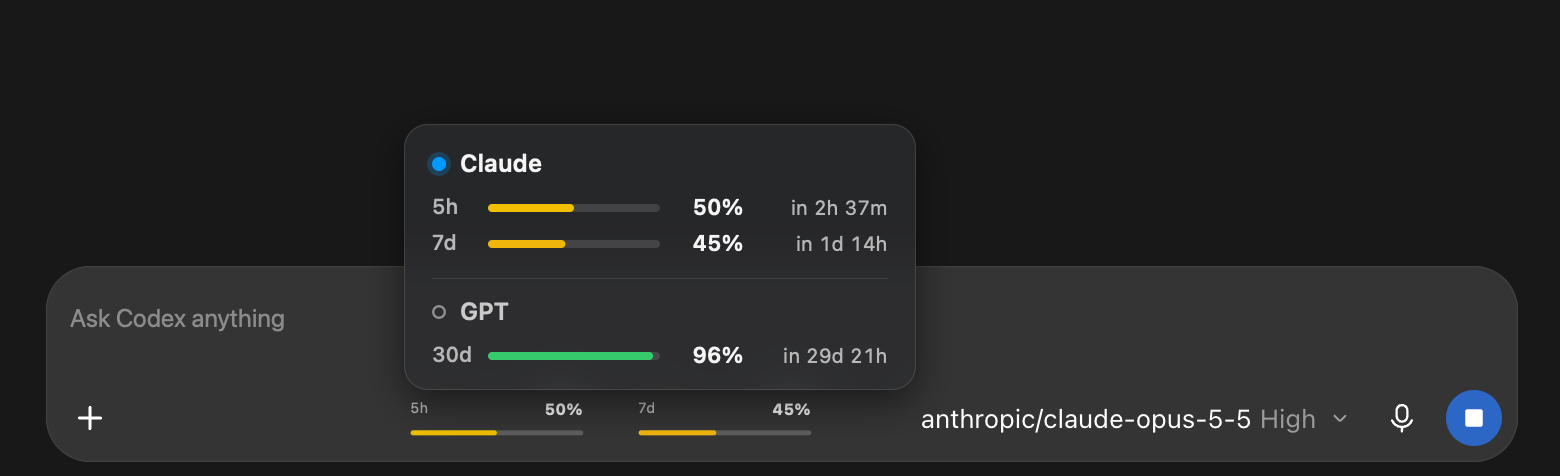
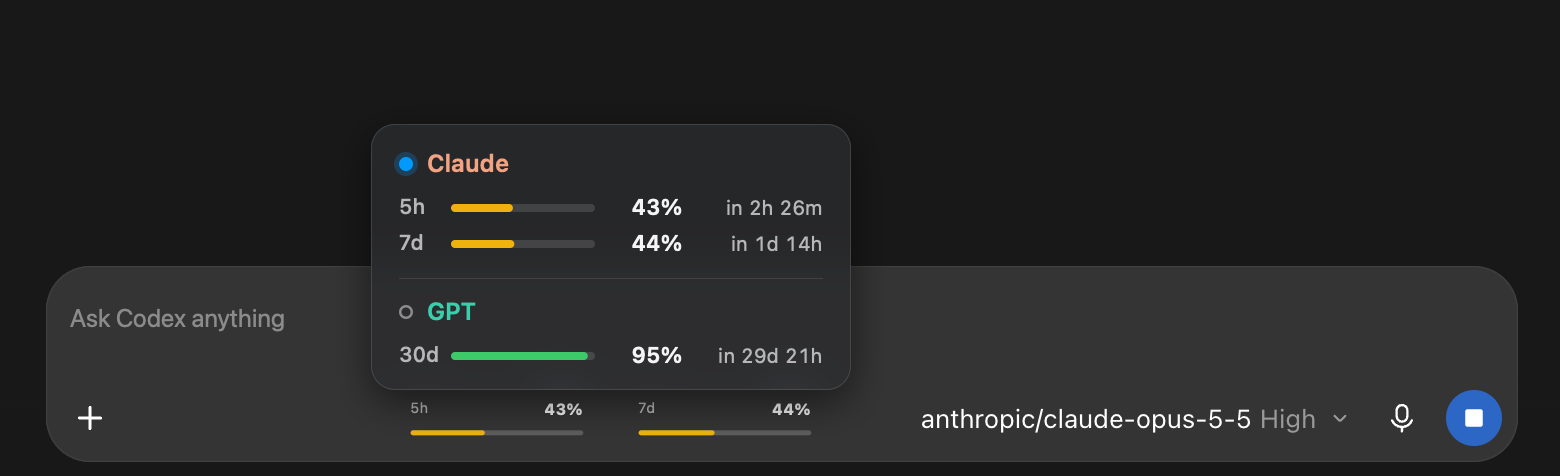
Droplet from the centre with a no-bounce spring, provider colours, narrower card

diff --git a/Sources/Tidemark/HoverCard.swift b/Sources/Tidemark/HoverCard.swift
@@ -4,6 +4,7 @@ import TidemarkCore
 
 struct HoverSection {
     let title: String
+    let color: NSColor
     let active: Bool
     let windows: [QuotaWindow]
 }
@@ -22,13 +23,18 @@ func quotaColor(_ remaining: Int) -> NSColor {
     return NSColor(calibratedRed: color.x / 255, green: color.y / 255, blue: color.z / 255, alpha: 1)
 }
 
-/// Hover card with every provider's quota. It grows out of the overlay's corner like a
-/// droplet: blur, border and shadow share one spring-animated shape. Everything is built on
-/// first hover, driven by Core Animation, and the bitmap is dropped again when hidden.
+/// Hover card with every provider's quota. A droplet forms just above the middle of the
+/// overlay, rises a little, then spreads into the card; blur, border and shadow share that one
+/// animated shape. Everything is built on first hover, driven by Core Animation, and the
+/// bitmap is dropped again when hidden.
 final class HoverCardController {
-    private static let margin: CGFloat = 26 // room for the shadow and spring overshoot
-    private static let width: CGFloat = 256
-    private static let gap: CGFloat = 5
+    private static let margin: CGFloat = 24 // room for the shadow
+    private static let width: CGFloat = 240
+    private static let gap: CGFloat = 6
+    /// Spread phase: Apple's "smooth" spring (critically damped, 0.25 s response). No bounce.
+    private static let spreadStiffness: CGFloat = 631
+    private static let spreadDamping: CGFloat = 50.2
+    private static let riseDuration: CFTimeInterval = 0.07
     private static let radius: CGFloat = 12
 
     private let anchorFrame: () -> NSRect?
@@ -85,29 +91,30 @@ final class HoverCardController {
             finishHide()
             return
         }
-        let blob = blobPath()
+        let seed = dropletPath(rising: false)
+        let ease = CAMediaTimingFunction(controlPoints: 0.4, 0, 1, 1)
         CATransaction.begin()
         CATransaction.setDisableActions(true)
         CATransaction.setCompletionBlock { [weak self] in
             guard let self, self.generation == current, !self.visible else { return }
             self.finishHide()
         }
-        let shrink = CABasicAnimation(keyPath: "path")
-        shrink.duration = 0.1
-        shrink.timingFunction = CAMediaTimingFunction(controlPoints: 0.5, 0, 0.9, 0.4)
         for layer in [blurMask, contentMask, border] {
+            let shrink = CABasicAnimation(keyPath: "path")
             shrink.fromValue = layer.presentation()?.path ?? layer.path
-            layer.path = blob
+            shrink.duration = 0.12
+            shrink.timingFunction = ease
+            layer.path = seed
             layer.add(shrink, forKey: "shape")
         }
         let shadowShrink = CABasicAnimation(keyPath: "shadowPath")
         shadowShrink.fromValue = shadow.presentation()?.shadowPath ?? shadow.shadowPath
-        shadowShrink.duration = 0.1
-        shadowShrink.timingFunction = shrink.timingFunction
-        shadow.shadowPath = blob
+        shadowShrink.duration = 0.12
+        shadowShrink.timingFunction = ease
+        shadow.shadowPath = seed
         shadow.add(shadowShrink, forKey: "shape")
         fade(inner, to: 0, duration: 0.06)
-        fade(shadow, to: 0, duration: 0.1)
+        fade(shadow, to: 0, duration: 0.12)
         CATransaction.commit()
     }
 
@@ -139,7 +146,6 @@ final class HoverCardController {
         blurView?.appearance = NSAppearance(named: dark ? .darkAqua : .aqua)
 
         let full = CGPath(roundedRect: cardRect, cornerWidth: Self.radius, cornerHeight: Self.radius, transform: nil)
-        let blob = blobPath()
 
         CATransaction.begin()
         CATransaction.setDisableActions(true)
@@ -183,25 +189,16 @@ final class HoverCardController {
 
         panel.orderFrontRegardless()
 
-        // Droplet: a small bead at the corner springs open into the card.
-        let spring = CASpringAnimation(keyPath: "path")
-        spring.mass = 1
-        spring.stiffness = 560
-        spring.damping = 25
-        spring.fromValue = blob
-        spring.toValue = full
-        spring.duration = min(spring.settlingDuration, 0.42)
-        for layer in [blurMask, contentMask, border] { layer.add(spring, forKey: "shape") }
-        let shadowSpring = spring.copy() as! CASpringAnimation
-        shadowSpring.keyPath = "shadowPath"
-        shadow.add(shadowSpring, forKey: "shape")
+        // Droplet: a seed forms above the overlay's centre, rises into a drop, then spreads.
+        for layer in [blurMask, contentMask, border] { layer.add(dropletAnimation("path", to: full), forKey: "shape") }
+        shadow.add(dropletAnimation("shadowPath", to: full), forKey: "shape")
 
         let now = CACurrentMediaTime()
         let reveal = CABasicAnimation(keyPath: "opacity")
         reveal.fromValue = 0
         reveal.toValue = 1
-        reveal.beginTime = now + 0.035
-        reveal.duration = 0.1
+        reveal.beginTime = now + Self.riseDuration + 0.03
+        reveal.duration = 0.12
         reveal.fillMode = .backwards
         inner.add(reveal, forKey: "fade")
 
@@ -210,18 +207,45 @@ final class HoverCardController {
             let grow = CABasicAnimation(keyPath: "bounds.size.width")
             grow.fromValue = 0
             grow.toValue = fill.bounds.width
-            grow.beginTime = now + 0.05 + Double(index) * 0.025
-            grow.duration = 0.28
+            grow.beginTime = now + Self.riseDuration + 0.05 + Double(index) * 0.02
+            grow.duration = 0.26
             grow.timingFunction = settle
             grow.fillMode = .backwards
             fill.add(grow, forKey: "grow")
         }
     }
 
-    /// The bead the card grows from and shrinks back into: the corner touching the overlay.
-    private func blobPath() -> CGPath {
-        CGPath(roundedRect: CGRect(x: cardRect.minX, y: cardRect.minY, width: 18, height: 16),
-               cornerWidth: 7.9, cornerHeight: 7.9, transform: nil)
+    /// Seed -> drop (quick ease-out), then drop -> card (critically damped spring).
+    private func dropletAnimation(_ keyPath: String, to full: CGPath) -> CAAnimation {
+        let rise = CABasicAnimation(keyPath: keyPath)
+        rise.fromValue = dropletPath(rising: false)
+        rise.toValue = dropletPath(rising: true)
+        rise.duration = Self.riseDuration
+        rise.timingFunction = CAMediaTimingFunction(name: .easeOut)
+        let spread = CASpringAnimation(keyPath: keyPath)
+        spread.mass = 1
+        spread.stiffness = Self.spreadStiffness
+        spread.damping = Self.spreadDamping
+        spread.fromValue = dropletPath(rising: true)
+        spread.toValue = full
+        spread.beginTime = Self.riseDuration
+        spread.duration = 0.32 // the critically damped tail is under a point after this
+        let group = CAAnimationGroup()
+        group.animations = [rise, spread]
+        group.duration = Self.riseDuration + spread.duration
+        return group
+    }
+
+    /// The droplet the card grows from and shrinks back into, centred on the card's bottom
+    /// edge (just above the middle of the overlay). Built with the same CGPath primitive as
+    /// the card so the shapes interpolate cleanly.
+    private func dropletPath(rising: Bool) -> CGPath {
+        let size = rising ? CGSize(width: 16, height: 20) : CGSize(width: 10, height: 8)
+        let lift: CGFloat = rising ? 5 : 0
+        let rect = CGRect(x: cardRect.midX - size.width / 2, y: cardRect.minY + lift,
+                          width: size.width, height: size.height)
+        let radius = min(size.width, size.height) / 2 - 0.1
+        return CGPath(roundedRect: rect, cornerWidth: radius, cornerHeight: radius, transform: nil)
     }
 
     private func fade(_ layer: CALayer, to value: Float, duration: CFTimeInterval) {
@@ -306,8 +330,8 @@ final class HoverCardController {
     }
 
     private func origin(for size: CGSize, anchor: NSRect) -> NSPoint {
-        // Card's bottom-left corner sits just above the overlay's top-left corner.
-        var x = anchor.minX + 4 - Self.margin
+        // Card is centred over the overlay; its bottom edge sits just above it.
+        var x = anchor.midX - size.width / 2
         let y = anchor.maxY + Self.gap - Self.margin
         if let visible = NSScreen.screens.first(where: { $0.frame.intersects(anchor) })?.visibleFrame {
             x = min(max(x, visible.minX - Self.margin + 6), visible.maxX - size.width + Self.margin - 6)
@@ -391,8 +415,7 @@ enum HoverCardRenderer {
                 ring.lineWidth = 1.2
                 ring.stroke()
             }
-            text(section.title, titleFont, section.active ? primary : primary.withAlphaComponent(0.78))
-                .draw(at: NSPoint(x: inset + 14, y: y))
+            text(section.title, titleFont, section.color).draw(at: NSPoint(x: inset + 14, y: y))
             y += headerHeight
 
             if section.windows.isEmpty {
@@ -401,9 +424,9 @@ enum HoverCardRenderer {
             }
             for window in section.windows {
                 text(window.label, labelFont, secondary).draw(at: NSPoint(x: inset, y: y + 2))
-                bars.append(Bar(frame: CGRect(x: 42, y: y + 7, width: 86, height: 4), remaining: window.remaining))
+                bars.append(Bar(frame: CGRect(x: 40, y: y + 7, width: 72, height: 4), remaining: window.remaining))
                 let percent = text("\(window.remaining)%", percentFont, primary)
-                percent.draw(at: NSPoint(x: 170 - percent.size().width, y: y + 1.5))
+                percent.draw(at: NSPoint(x: width - 84 - percent.size().width, y: y + 1.5))
                 let reset = text(L10n.resetText(window.resetAt, now: now), resetFont, secondary)
                 reset.draw(at: NSPoint(x: width - inset - reset.size().width, y: y + 2.5))
                 y += rowHeight

diff --git a/Sources/Tidemark/App.swift b/Sources/Tidemark/App.swift
@@ -626,6 +626,17 @@ final class OverlayController: NSObject, NSApplicationDelegate {
 
     private func hoverSections() -> [HoverSection] {
         let now = Date()
+        let dark = overlayView.darkMode
+        // Provider colours: Claude terracotta, GPT emerald; lifted a little in dark mode.
+        let claudeColor = dark
+            ? NSColor(calibratedRed: 236 / 255, green: 145 / 255, blue: 112 / 255, alpha: 1)
+            : NSColor(calibratedRed: 201 / 255, green: 100 / 255, blue: 66 / 255, alpha: 1)
+        let gptColor = dark
+            ? NSColor(calibratedRed: 52 / 255, green: 199 / 255, blue: 155 / 255, alpha: 1)
+            : NSColor(calibratedRed: 13 / 255, green: 138 / 255, blue: 106 / 255, alpha: 1)
+        let otherColor = dark
+            ? NSColor(calibratedRed: 160 / 255, green: 140 / 255, blue: 1, alpha: 1)
+            : NSColor(calibratedRed: 99 / 255, green: 82 / 255, blue: 220 / 255, alpha: 1)
         var gpt = CodexAccountQuotaReader.activeWindows(now: now)
         if gpt.isEmpty {
             // OpenCodex not running: fall back to the direct ChatGPT usage response.
@@ -635,6 +646,7 @@ final class OverlayController: NSObject, NSApplicationDelegate {
         var sections = [
             HoverSection(
                 title: "GPT",
+                color: gptColor,
                 active: quotaSource == .openAI,
                 windows: gpt
             ),
@@ -643,11 +655,12 @@ final class OverlayController: NSObject, NSApplicationDelegate {
         let claude = OpenCodexQuotaReader.windows(provider: "anthropic", now: now)
         let claudeActive = quotaSource == .openCodexProvider("anthropic")
         if !claude.isEmpty || claudeActive {
-            sections.insert(HoverSection(title: "Claude", active: claudeActive, windows: claude), at: 0)
+            sections.insert(HoverSection(title: "Claude", color: claudeColor, active: claudeActive, windows: claude), at: 0)
         }
         if case .openCodexProvider(let provider) = quotaSource, provider != "anthropic" {
             sections.append(HoverSection(
                 title: provider.capitalized,
+                color: otherColor,
                 active: true,
                 windows: OpenCodexQuotaReader.windows(provider: provider, now: now)
             ))

diff --git a/README.ko.md b/README.ko.md
@@ -11,14 +11,14 @@
 
 ---
 
-Tidemark는 Codex 데스크톱 앱 입력창의 빈 공간에 **5h**와 **7d** 막대 두 개를 띄웁니다. 지금 선택한 모델 기준으로 사용 한도가 얼마나 남았는지 보여줍니다. 막대에 마우스를 올리면 모서리에서 카드가 튀어나와, 모든 제공자의 남은 사용량과 각 한도가 언제 초기화되는지 한 번에 보여줍니다.
+Tidemark는 Codex 데스크톱 앱 입력창의 빈 공간에 **5h**와 **7d** 막대 두 개를 띄웁니다. 지금 선택한 모델 기준으로 사용 한도가 얼마나 남았는지 보여줍니다. 막대에 마우스를 올리면 막대 위에서 물방울처럼 카드가 퍼져 나와, 모든 제공자의 남은 사용량과 각 한도가 언제 초기화되는지 한 번에 보여줍니다.
 
 OpenCodex로 Claude 같은 다른 제공자를 Codex에 연결해 쓴다면, Tidemark가 모델 선택기를 따라갑니다. `anthropic/claude-…`를 고르면 Claude 한도가, GPT 모델을 고르면 다시 GPT 한도가 표시됩니다.
 
 ## 기능
 
 - **모델 선택기를 따라갑니다.** 입력창에서 선택된 모델을 읽어, 바꾼 뒤 0.1초 안팎에 해당 한도로 바꿔 보여줍니다.
-- **호버 카드.** 모든 제공자의 남은 비율과 초기화까지 남은 시간을 함께 보여줍니다. 지금 쓰는 제공자는 왼쪽 점이 채워져 있습니다. 배경 블러, 물방울 애니메이션, 라이트·다크 모드를 지원합니다.
+- **호버 카드.** 제공자별 색으로 남은 비율과 초기화까지 남은 시간을 함께 보여줍니다. 지금 쓰는 제공자는 왼쪽 점이 채워져 있습니다. 배경 블러, 튕김 없는 물방울 애니메이션, 라이트·다크 모드를 지원합니다.
 - **작업을 방해하지 않습니다.** 클릭은 그대로 아래로 통과하고, Dock 아이콘도 메뉴 막대 아이콘도 창도 없습니다.
 - **가볍습니다.** 프로세스 하나로 동작하며, Codex가 앞에 있을 때 메모리 약 11MB, CPU는 코어 하나의 1% 미만을 씁니다. 그 밖에는 거의 쓰지 않습니다. Codex가 꺼져 있으면 Codex가 켜지기를 기다리기만 합니다.
 - **두 가지 언어.** 영어판과 한국어판을 따로 빌드해 각각 최대한 작게 유지합니다.

diff --git a/README.md b/README.md
@@ -11,14 +11,14 @@
 
 ---
 
-Tidemark puts two small bars, **5h** and **7d**, in the empty space of the Codex desktop app's composer. They show how much of your rate limit is left for the model you have selected. Hover over them and a card springs out of the corner with every provider's quota and when each window resets.
+Tidemark puts two small bars, **5h** and **7d**, in the empty space of the Codex desktop app's composer. They show how much of your rate limit is left for the model you have selected. Hover over them and a card grows out of the bars like a droplet, showing every provider's quota and when each window resets.
 
 If you route Claude or other providers into Codex through OpenCodex, Tidemark follows the model picker. Choose `anthropic/claude-…` and the bars switch to your Claude limits; choose a GPT model and they switch back.
 
 ## Features
 
 - **Follows the model picker.** Reads the selected model from the composer and shows the matching quota within about 0.1 s of a change.
-- **Hover card.** All providers at once, with reset countdowns. A filled dot marks the provider you are using. Blurred background, droplet animation, light and dark mode.
+- **Hover card.** All providers at once, each in its own colour, with reset countdowns. A filled dot marks the provider you are using. Blurred background, a droplet animation with no bounce, light and dark mode.
 - **Stays out of the way.** Clicks pass straight through. No Dock icon, no menu bar icon, no windows.
 - **Light.** One process using about 11 MB of memory and under 1% of one CPU core while Codex is in front, and close to nothing otherwise. While Codex is closed, Tidemark only waits for it to launch.
 - **Two languages.** English and Korean are separate builds, so each stays as small as possible.
